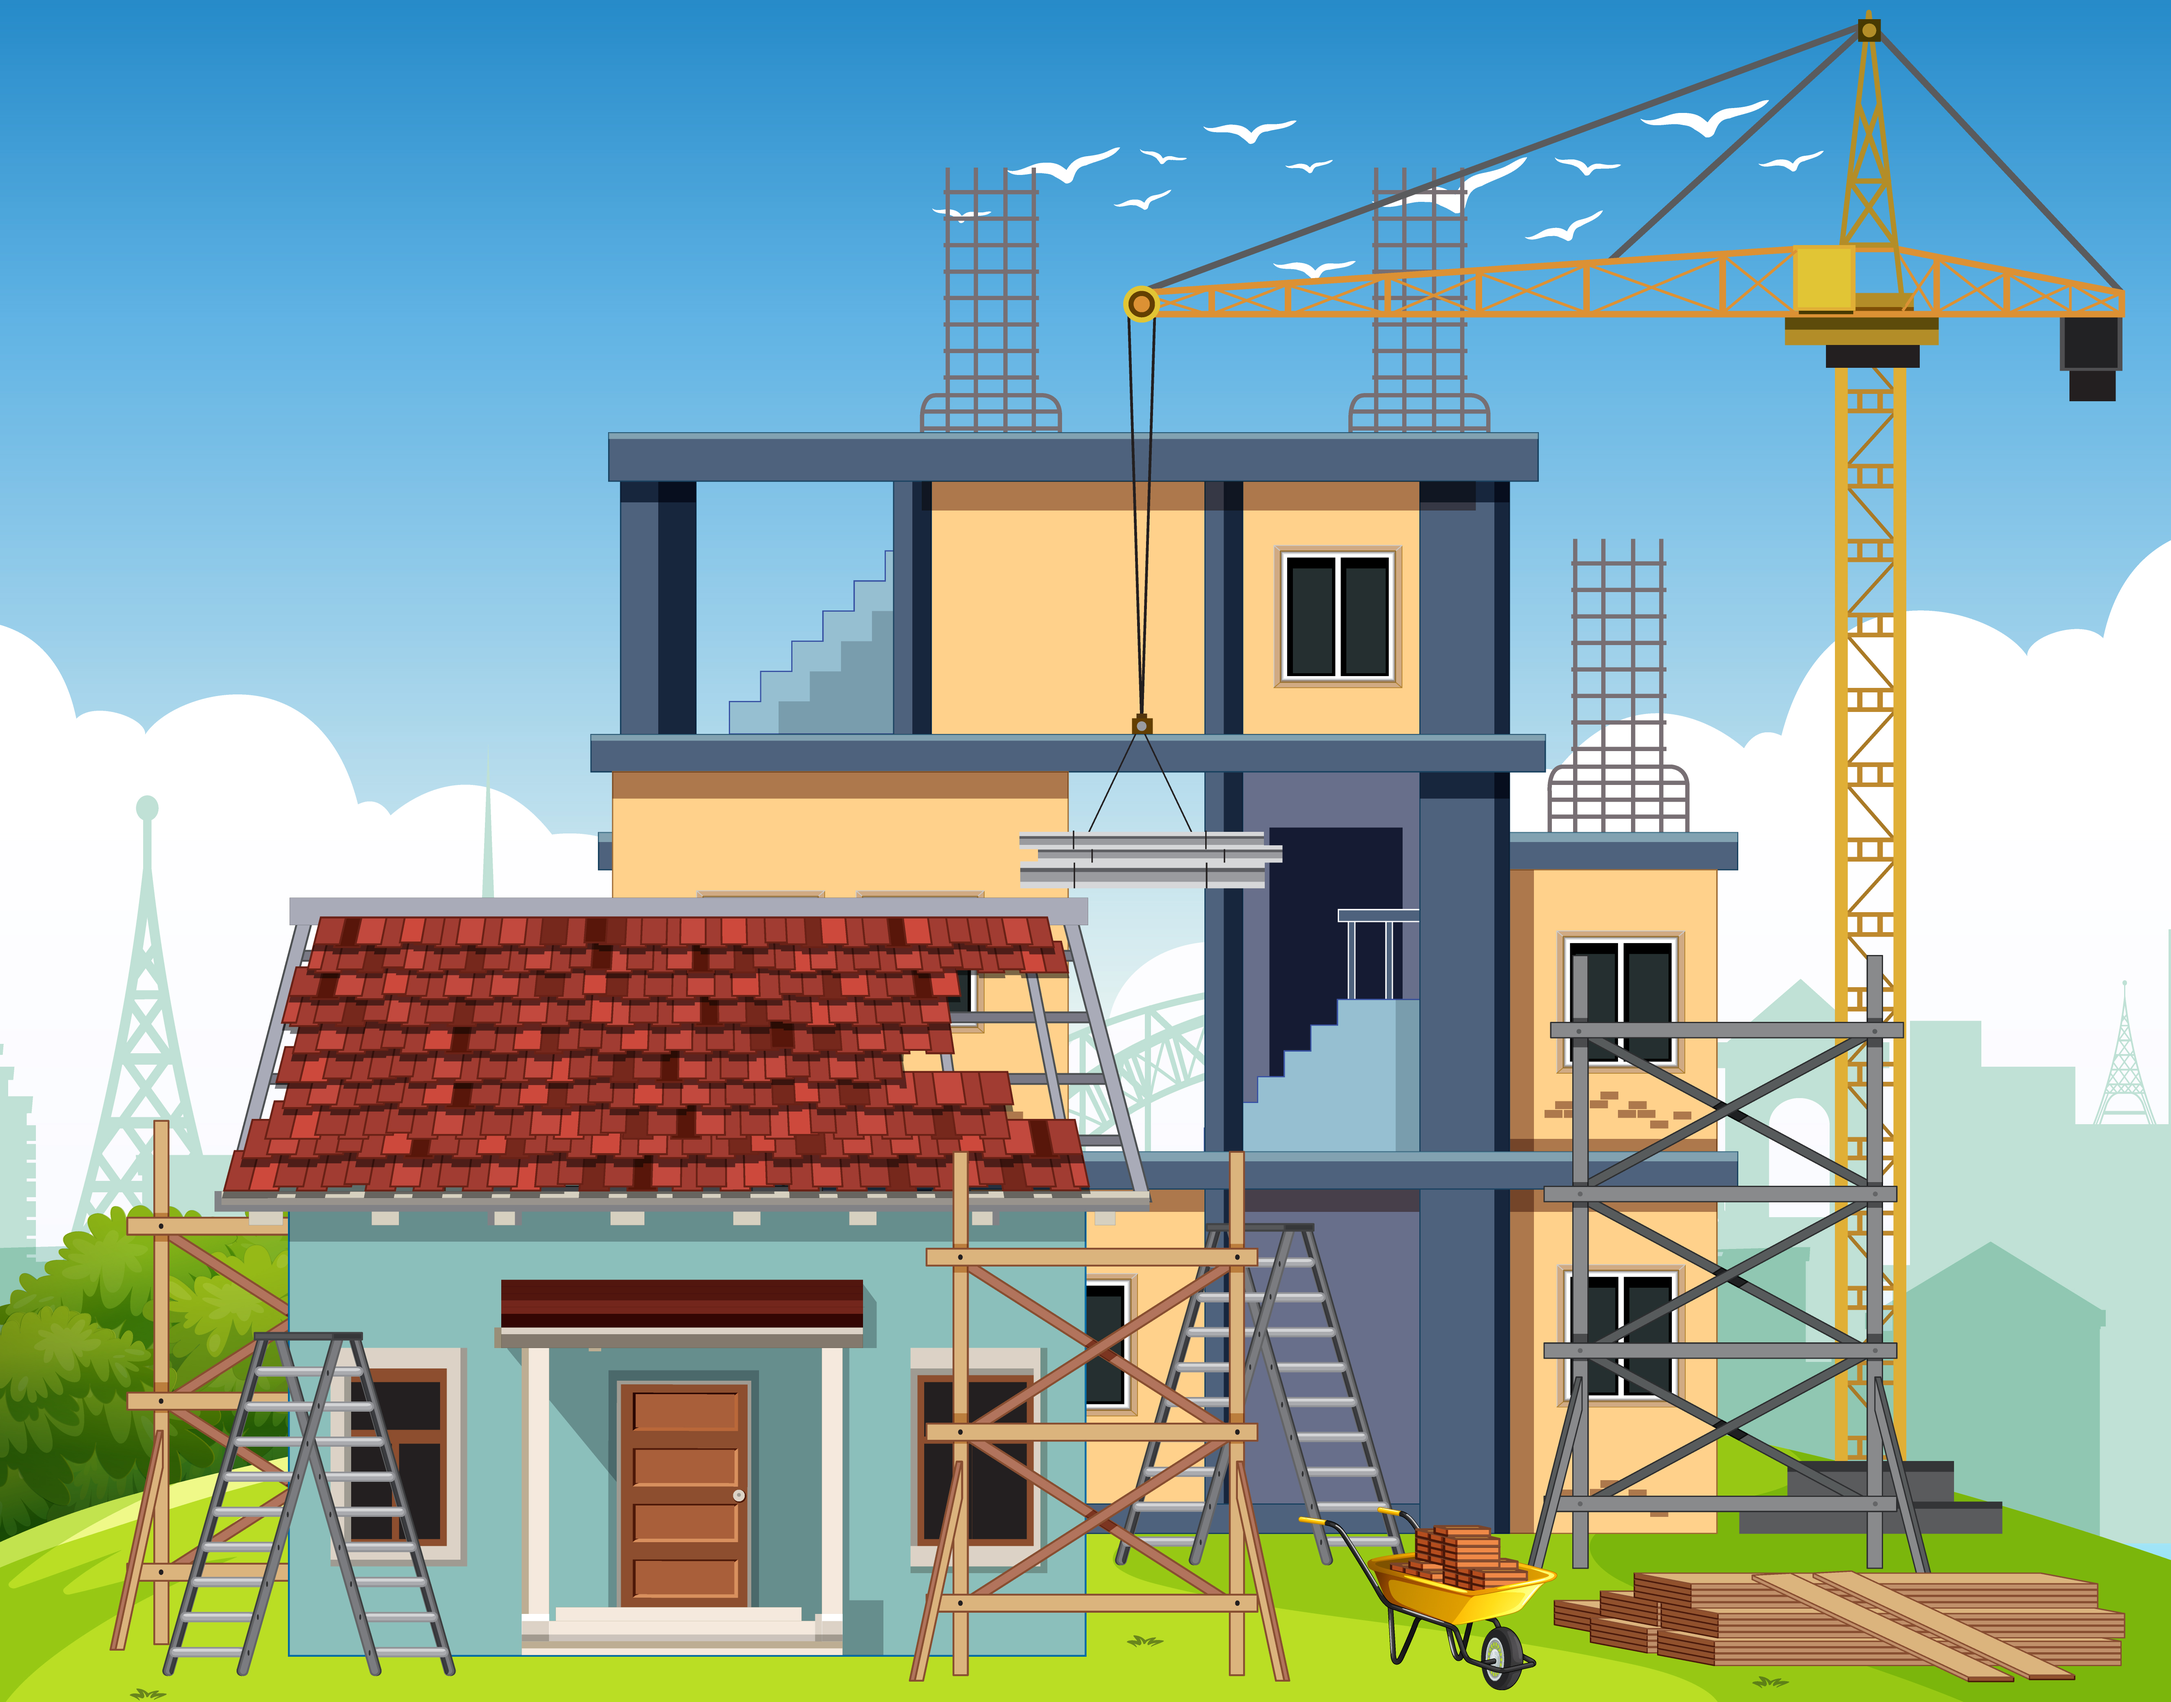
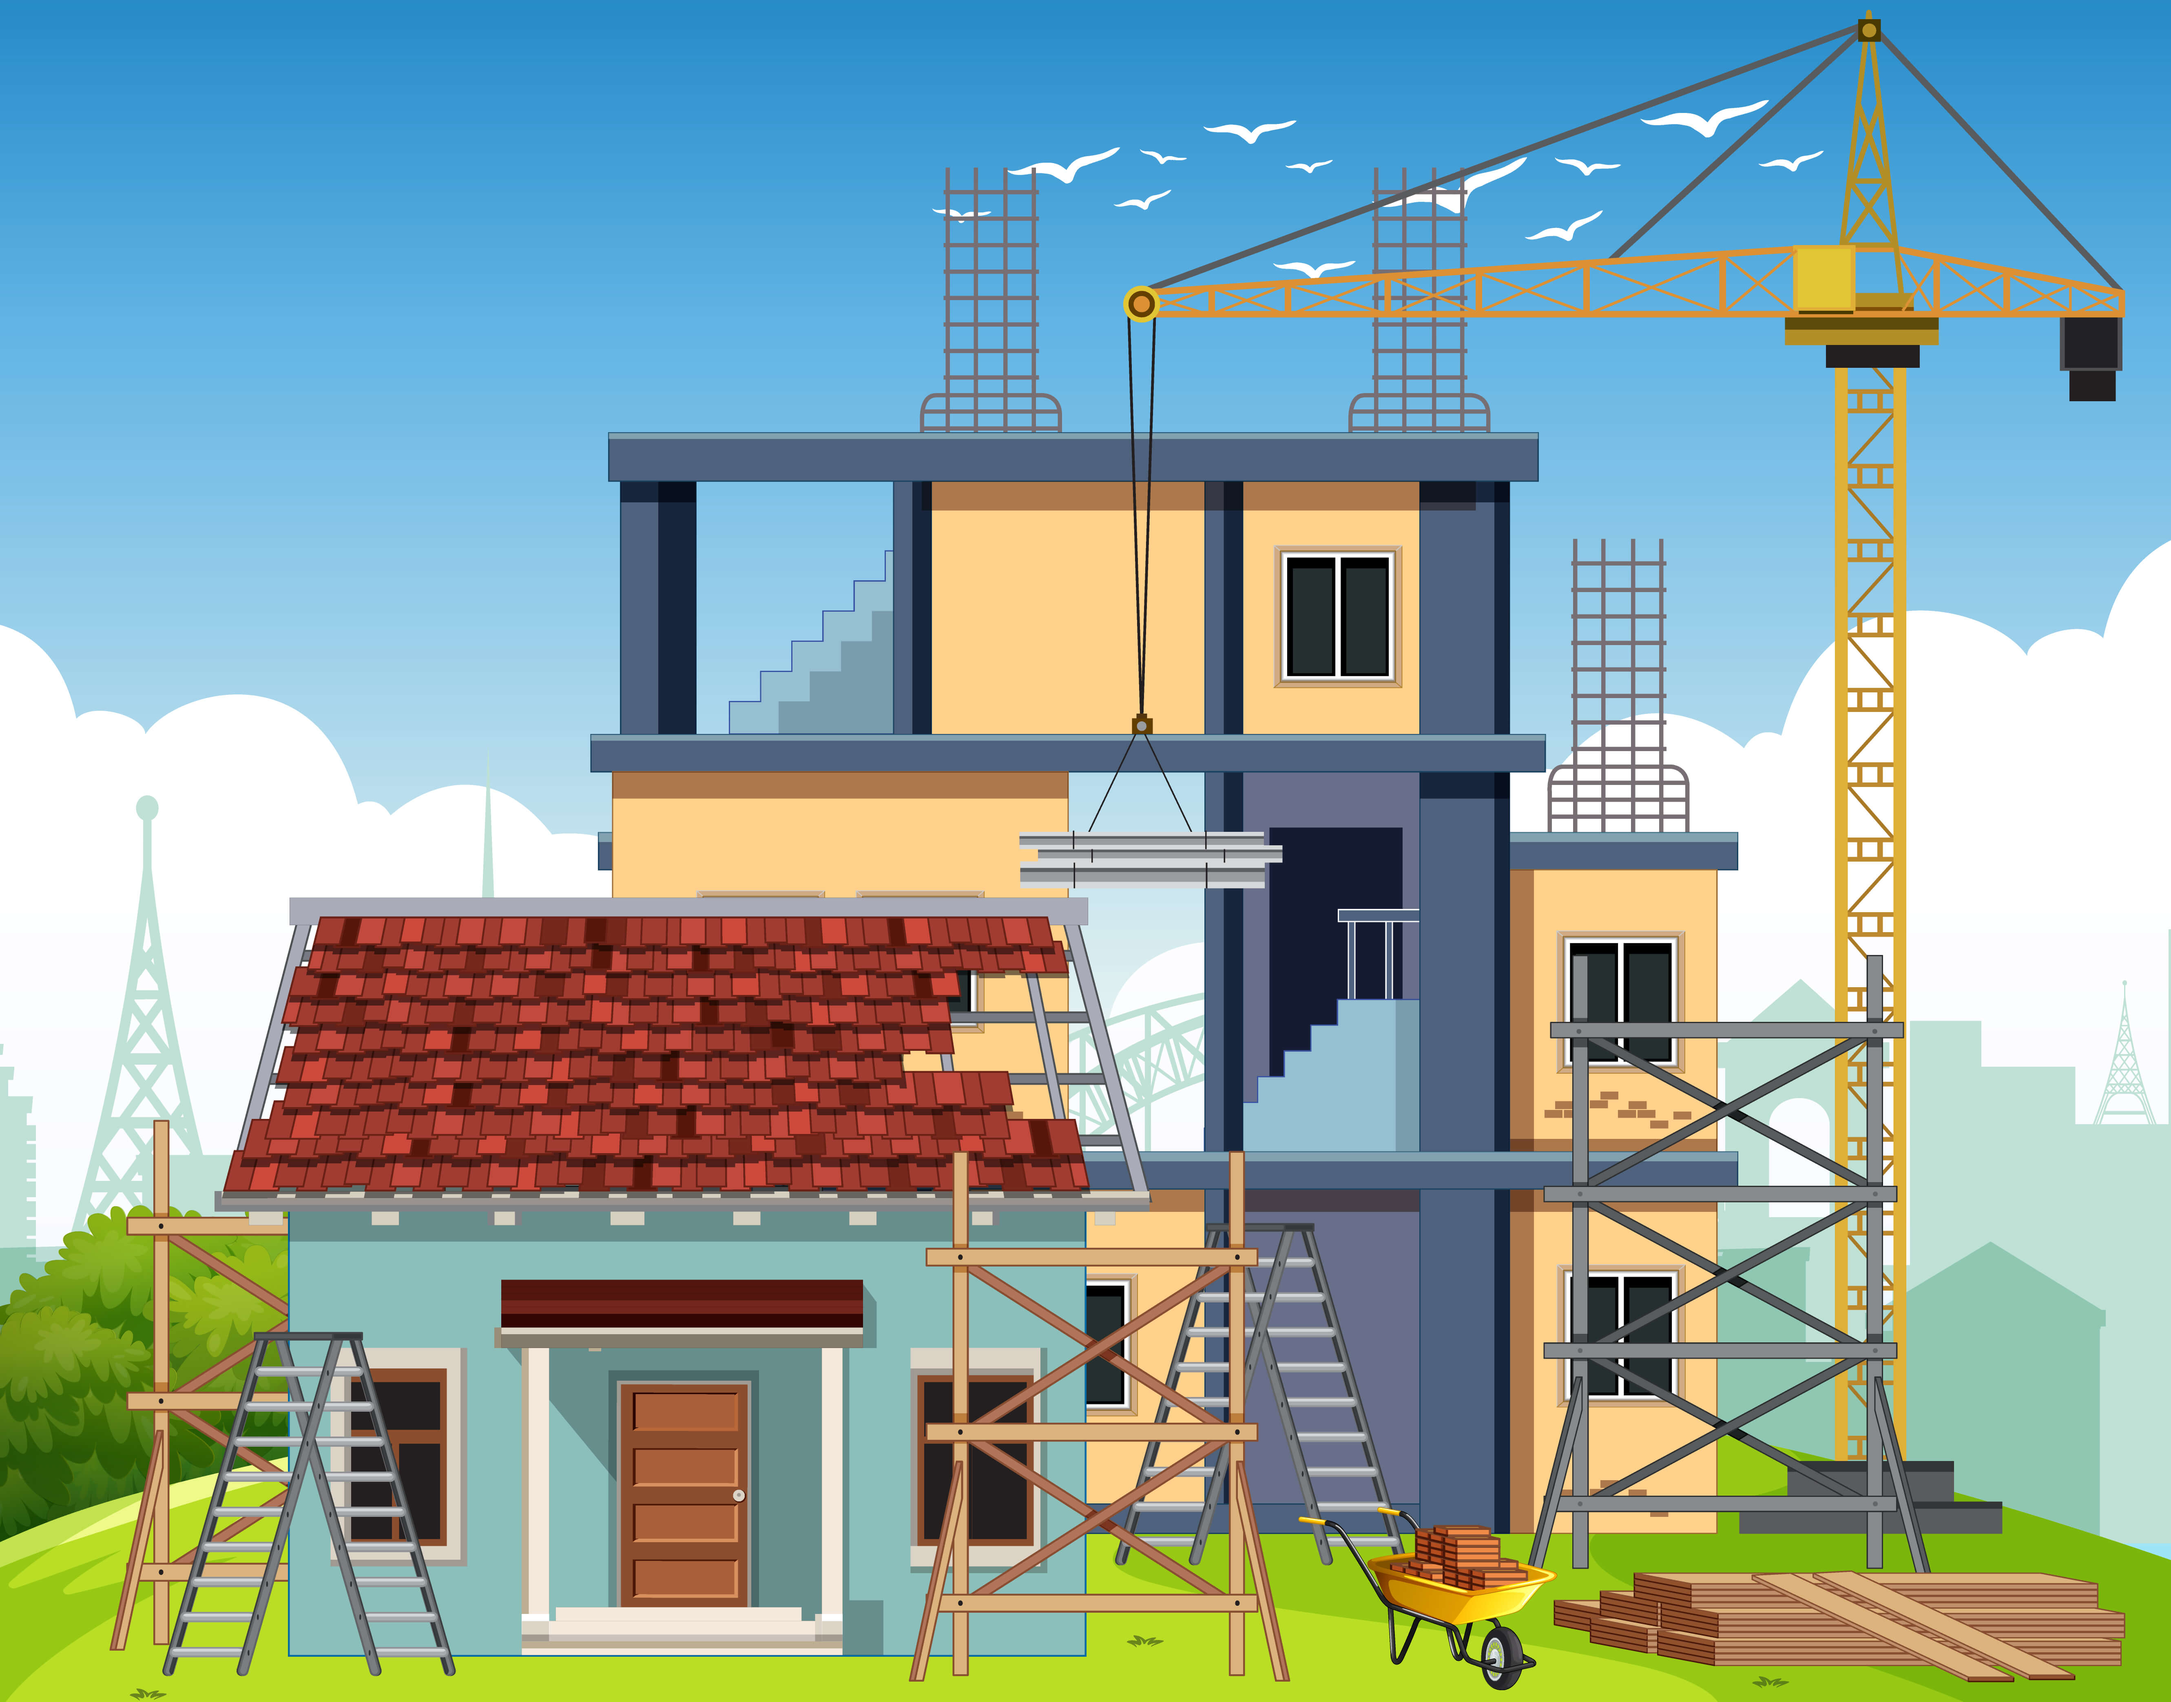
optimize images

diff --git a/app/components/top-features/index.js b/app/components/top-features/index.js
@@ -2,7 +2,7 @@ import Image from "next/image";
 import React from "react";
 import featureBg from "../../assets/images/common/feature-bg2.png";
 import spiderLeft from "../../assets/images/common/spider-left.png";
-import feature1 from "../../assets/images/feature1.jpg";
+import feature1 from "../../assets/images/feature1.webp";
 import feature2 from "../../assets/images/feature2.jpg";
 import feature3 from "../../assets/images/feature3.jpg";
 import feature4 from "../../assets/images/feature4.jpg";
